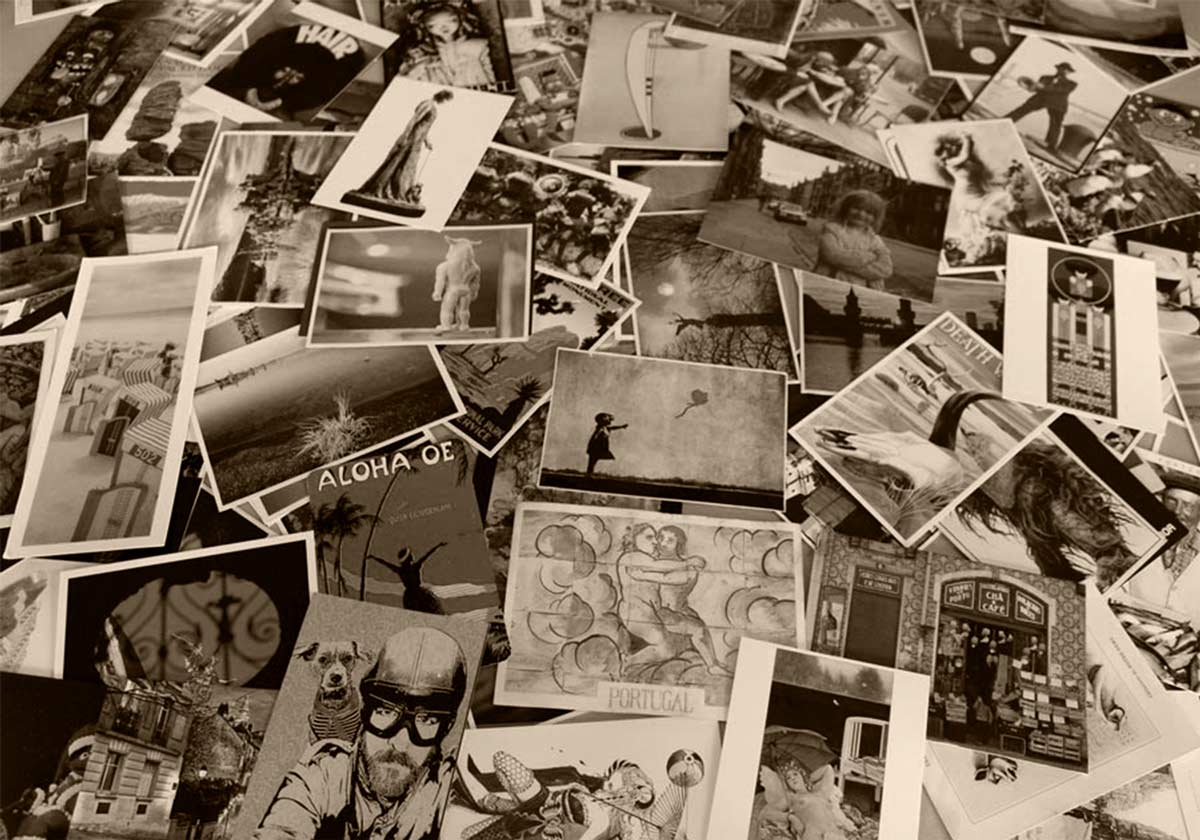
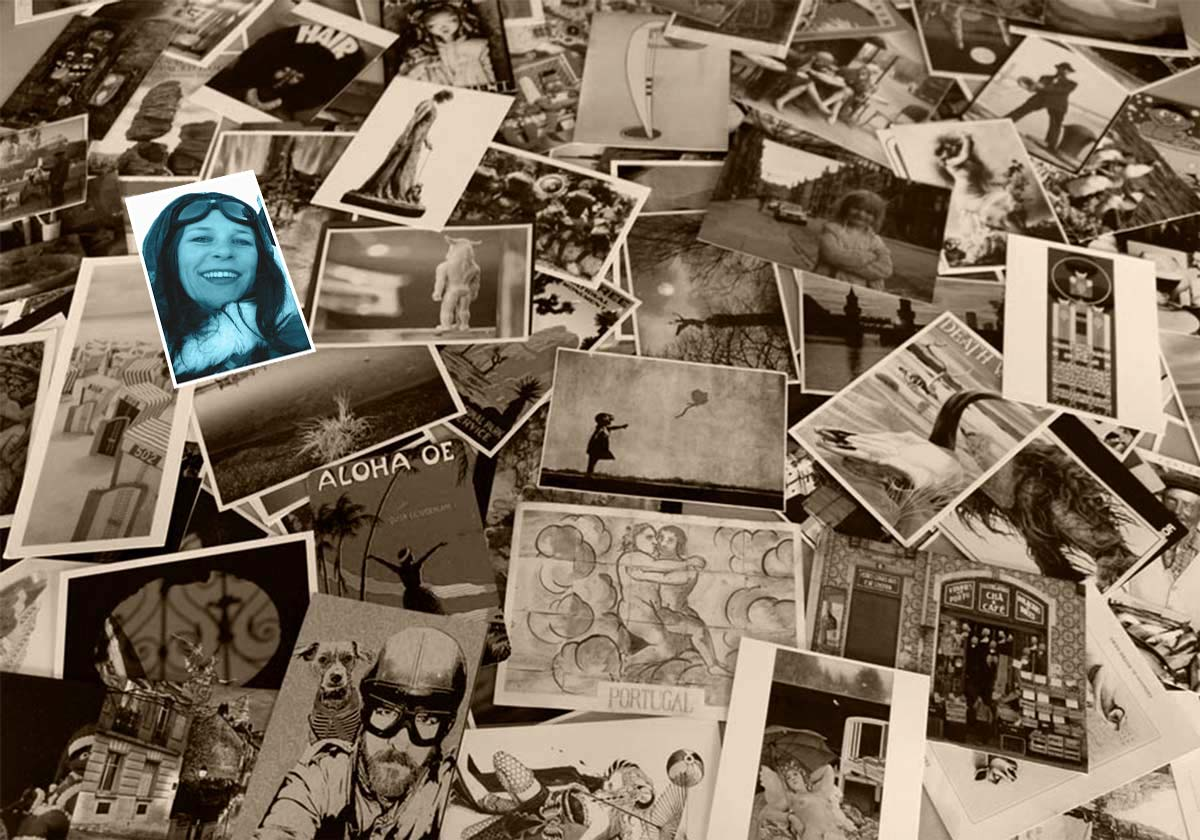
Contact_bg image; last changes on about page

Changed region(s): [[0.0925, 0.1857, 0.2775, 0.4643]]

diff --git a/css/main.css b/css/main.css
@@ -248,12 +248,26 @@ a {
     font-family: "Lato", sans-serif;
     line-height: 2;
     padding-right: 10px;
-    color: #6D9EAB;
-    text-decoration: none; }
+    text-decoration: none;
+    color: #6D9EAB; }
     .aboutInsp a:hover {
       color: #CEC7BC; }
     @media screen and (min-width: 700px) {
       .aboutInsp a {
+        line-height: 1.6; } }
+  .aboutInsp h4 {
+    font-size: 0.9em;
+    font-family: "Lato", sans-serif;
+    line-height: 2;
+    padding-right: 10px;
+    text-decoration: none;
+    font-size: 1em;
+    font-weight: bold;
+    color: #CEC7BC; }
+    .aboutInsp h4:hover {
+      color: #CEC7BC; }
+    @media screen and (min-width: 700px) {
+      .aboutInsp h4 {
         line-height: 1.6; } }
 
 .aboutInsp .h3Insp {
@@ -1329,5 +1343,45 @@ h3.infoScTitle {
     margin: 0; }
   .infoAbout p {
     color: #CEC7BC; }
+
+.contact {
+  background-color: #e3d1bd;
+  margin-top: -5px; }
+  .contact h3 {
+    clear: both;
+    padding: 80px 3% 0;
+    font-family: "Megrim", cursive;
+    font-weight: bold;
+    color: white;
+    opacity: 0.2;
+    font-size: 5em;
+    margin: 0 0 -40px 0; }
+    @media screen and (min-width: 700px) {
+      .contact h3 {
+        padding: 80px 12% 0; } }
+    @media screen and (min-width: 1000px) {
+      .contact h3 {
+        padding: 80px 20% 0; } }
+  .contact p {
+    padding: 10px 10% 0 15%;
+    text-align: right;
+    color: black; }
+    .contact p:last-child {
+      padding-bottom: 100px; }
+    @media screen and (min-width: 700px) {
+      .contact p {
+        padding: 10px 15% 0 25%; } }
+    @media screen and (min-width: 1000px) {
+      .contact p {
+        padding: 10px 25% 0 32%; } }
+
+.contactImg {
+  background-image: url(../images/postcards.jpg);
+  background-size: 100%;
+  background-repeat: no-repeat;
+  background-attachment: fixed;
+  position: relative;
+  background-position: center;
+  height: 600px; }
 
 /*# sourceMappingURL=main.css.map */

diff --git a/pages/about.html b/pages/about.html
@@ -39,8 +39,8 @@
         </div>
 
         <div class="infoAbout">
-            <h3>Hi!</h3>
-            <p>My name is Stephanie. I'm a multimedia artist and web designer based in San Diego, California. I love to travel and cannot leave a place without a postcard. <br>Or two.</p>
+            <h3>Hi &amp; welcome</h3>
+            <p>My name is Stephanie. I'm a multimedia artist and web designer based in San Diego, California. I love to travel and cannot leave a place without picking up a postcard. <br>Or two.</p>
         </div>
 
         <div class="selfieImg2">
@@ -77,10 +77,12 @@
                 <li><h3><a href="http://www.buddy-baer.com/" target="_blank">United Buddy Bears</a></h3></li>
                 <li><h3><a href="https://pixabay.com/" target="_blank">Pixabay</a></h3></li>
                 <li><h3><a href="https://unsplash.com/" target="_blank">Unsplash</a></h3></li>
+                <li><h3><a href="https://www.pexels.com/" target="_blank">Pexels</a></h3></li>
                 <li><h3><a href="https://www.loc.gov/" target="_blank">Library of Congress</a></h3></li>
                 <li><h3><a href="https://www.videoblocks.com/" target="_blank">Videoblocks</a></h3></li>
                 <li><h3><a href="http://www.hbo.com/true-detective" target="_blank">True Detective</a></h3></li>
                 <li><h3><a href="http://www.dakhabrakha.com.ua/" target="_blank">Dakha Brakha</a></h3></li>
+                <li><h4>Everywhere I've been</h4></li>
                 <li><h3><a href="contact.html" target="_self">And a huge postcard and photo collection</a></h3></li>
         </ul>
 

diff --git a/pages/contact.html b/pages/contact.html
@@ -34,10 +34,24 @@
     </header>
 
     <section>
+        <div class="contactImg">
 
-       <img class="mockup100" src="../images/postcards.jpg" alt="poster on wall">
+        </div>
+<!--       <img class="mockup100" src="../images/postcards.jpg" alt="poster on wall">-->
     </section>
+    <div class="contact">
+            <h3>Get in touch</h3>
+            <p>Thank you for your interest. I look forward to getting mail from you.</p>
 
+
+
+        </div>
+    <section>
+        <div class="contactImg">
+
+        </div>
+<!--       <img class="mockup100" src="../images/postcards.jpg" alt="poster on wall">-->
+    </section>
     <footer class="footerPort">
         <p>&copy; 2018 Stephanie Torok</p>
     </footer>

diff --git a/sass/3-layouts/_about.sass b/sass/3-layouts/_about.sass
@@ -63,16 +63,13 @@
         @include mQ (700px)
             margin-right: 10%
     a
-        font-size: .9em
-        font-family: $lato
-        line-height: 2
-        padding-right: 10px
+        @include listInsp
         color: $blue
-        text-decoration: none
-        &:hover
-            color: $offWhite
-        @include mQ (700px)
-            line-height: 1.6
+    h4
+        @include listInsp
+        font-size: 1em
+        font-weight: bold
+        color: $offWhite
 .aboutInsp .h3Insp
     font-size: 3.6em
     color: $rose

diff --git a/sass/0-global/_mixins.sass b/sass/0-global/_mixins.sass
@@ -72,6 +72,7 @@
     border: solid 1px $gold
     border-radius: 8px
     text-align: center
+
 @mixin a-button
     cursor: pointer
     padding: 15px 0
@@ -81,3 +82,14 @@
         color: $gold
         text-decoration: underline
         transition: 1.5s
+
+@mixin listInsp
+    font-size: .9em
+    font-family: $lato
+    line-height: 2
+    padding-right: 10px
+    text-decoration: none
+    &:hover
+        color: $offWhite
+    @include mQ (700px)
+        line-height: 1.6

diff --git a/sass/4-modules/_infoBoxes.sass b/sass/4-modules/_infoBoxes.sass
@@ -65,3 +65,12 @@ h3.infoScTitle
         margin: 0
     p
         color: $offWhite
+.contact
+    @include addInfo
+    background-color: #e3d1bd
+    margin-top: -5px
+.contactImg
+    background-image: url(../images/postcards.jpg)
+    @include parallax
+    background-position: center
+    height: 600px
